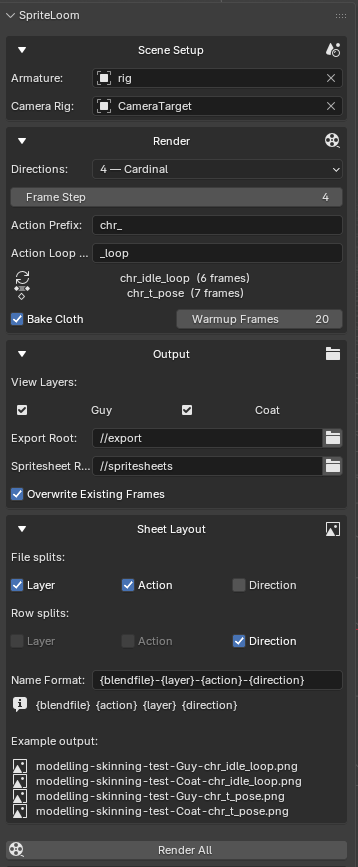
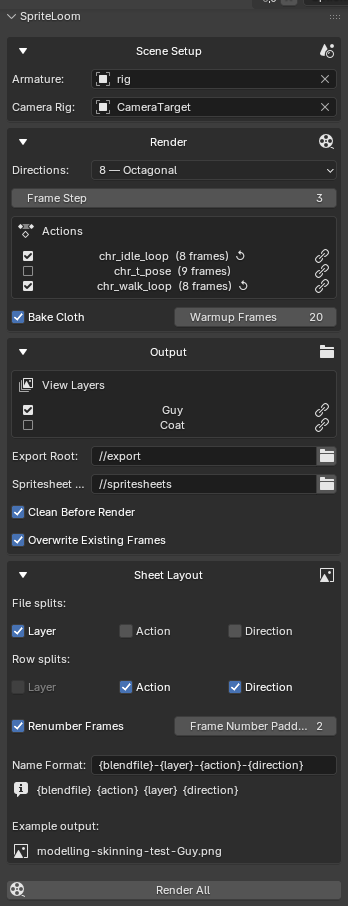
Update README to reflect current addon state

diff --git a/README.md b/README.md
@@ -6,16 +6,19 @@ Blender addon for rendering modular 2D character sprite sheets across all action
 
 ## Features
 
-- Renders all actions matching a configurable prefix (default `chr_`)
+- All actions in the file shown as checkboxes, all selected by default — click to include/exclude
 - Looping animation support — actions with **Cyclic Animation** enabled exclude the duplicate last frame
-- Per-action clickable list shows frame count and jumps to the Animation workspace
+- Navigate buttons on each action (jump to Animation workspace) and view layer (activate it)
 - View layer selection via checkboxes (one per layer, all enabled by default)
 - 1 / 4 / 8 / 16 direction rendering via camera rig rotation
 - Configurable file and row splits: separate sheets per action, layer, and/or direction
 - Configurable sheet naming via placeholders: `{blendfile}`, `{action}`, `{layer}`, `{direction}`
+- Frame renumbering: JSON keys can be 0-based consecutive or original Blender frame numbers
+- Configurable frame number zero-padding (default 2 digits)
 - Live example output preview in the Sheet Layout panel
 - Cloth simulation baking per view layer / action combination before rendering
-- Resume support — skips frames that already exist on disk
+- Clean Before Render option to wipe the export folder before each run
+- Resume support — skips frames that already exist on disk (when clean is off)
 - Auto-detects armature and camera rig from the scene
 - N-panel UI with validation warnings and per-run summary
 
@@ -70,22 +73,26 @@ The simplest setup: **Render Layers → Composite**. Any colour correction, alph
 |---|---|
 | Directions | Number of render directions: 1 / 4 / 8 / 16 |
 | Frame Step | Render every Nth frame |
-| Action Prefix | Only actions starting with this prefix are rendered |
+| Actions | Checkbox list of all actions in the file — all selected by default; click to toggle, link button to navigate |
 | Bake Cloth | Bake cloth simulations before rendering (per layer/action) |
 | Warmup Frames | Extra frames baked before the action start |
 
 ### Output
 | Field | Description |
 |---|---|
-| View Layers | Checkboxes to include/exclude individual layers |
+| View Layers | Checkbox list of all view layers — all selected by default; click to toggle, link button to activate |
 | Export Root | Folder for rendered frames (supports `//` blend-relative paths) |
 | Spritesheet Root | Folder for packed sprite sheets |
+| Clean Before Render | Delete all files in the export folder before starting |
+| Overwrite Existing Frames | Re-render frames that already exist on disk |
 
 ### Sheet Layout
 | Field | Description |
 |---|---|
 | File splits | Separate files per Action / Layer / Direction |
 | Row splits | Separate rows per Action / Layer / Direction within a sheet |
+| Renumber Frames | JSON frame keys are 0-based consecutive (off = original Blender frame numbers) |
+| Frame Number Padding | Zero-pad width for frame number keys (default 2) |
 | Name Format | Filename template using `{blendfile}`, `{action}`, `{layer}`, `{direction}` |
 
 ## Output
